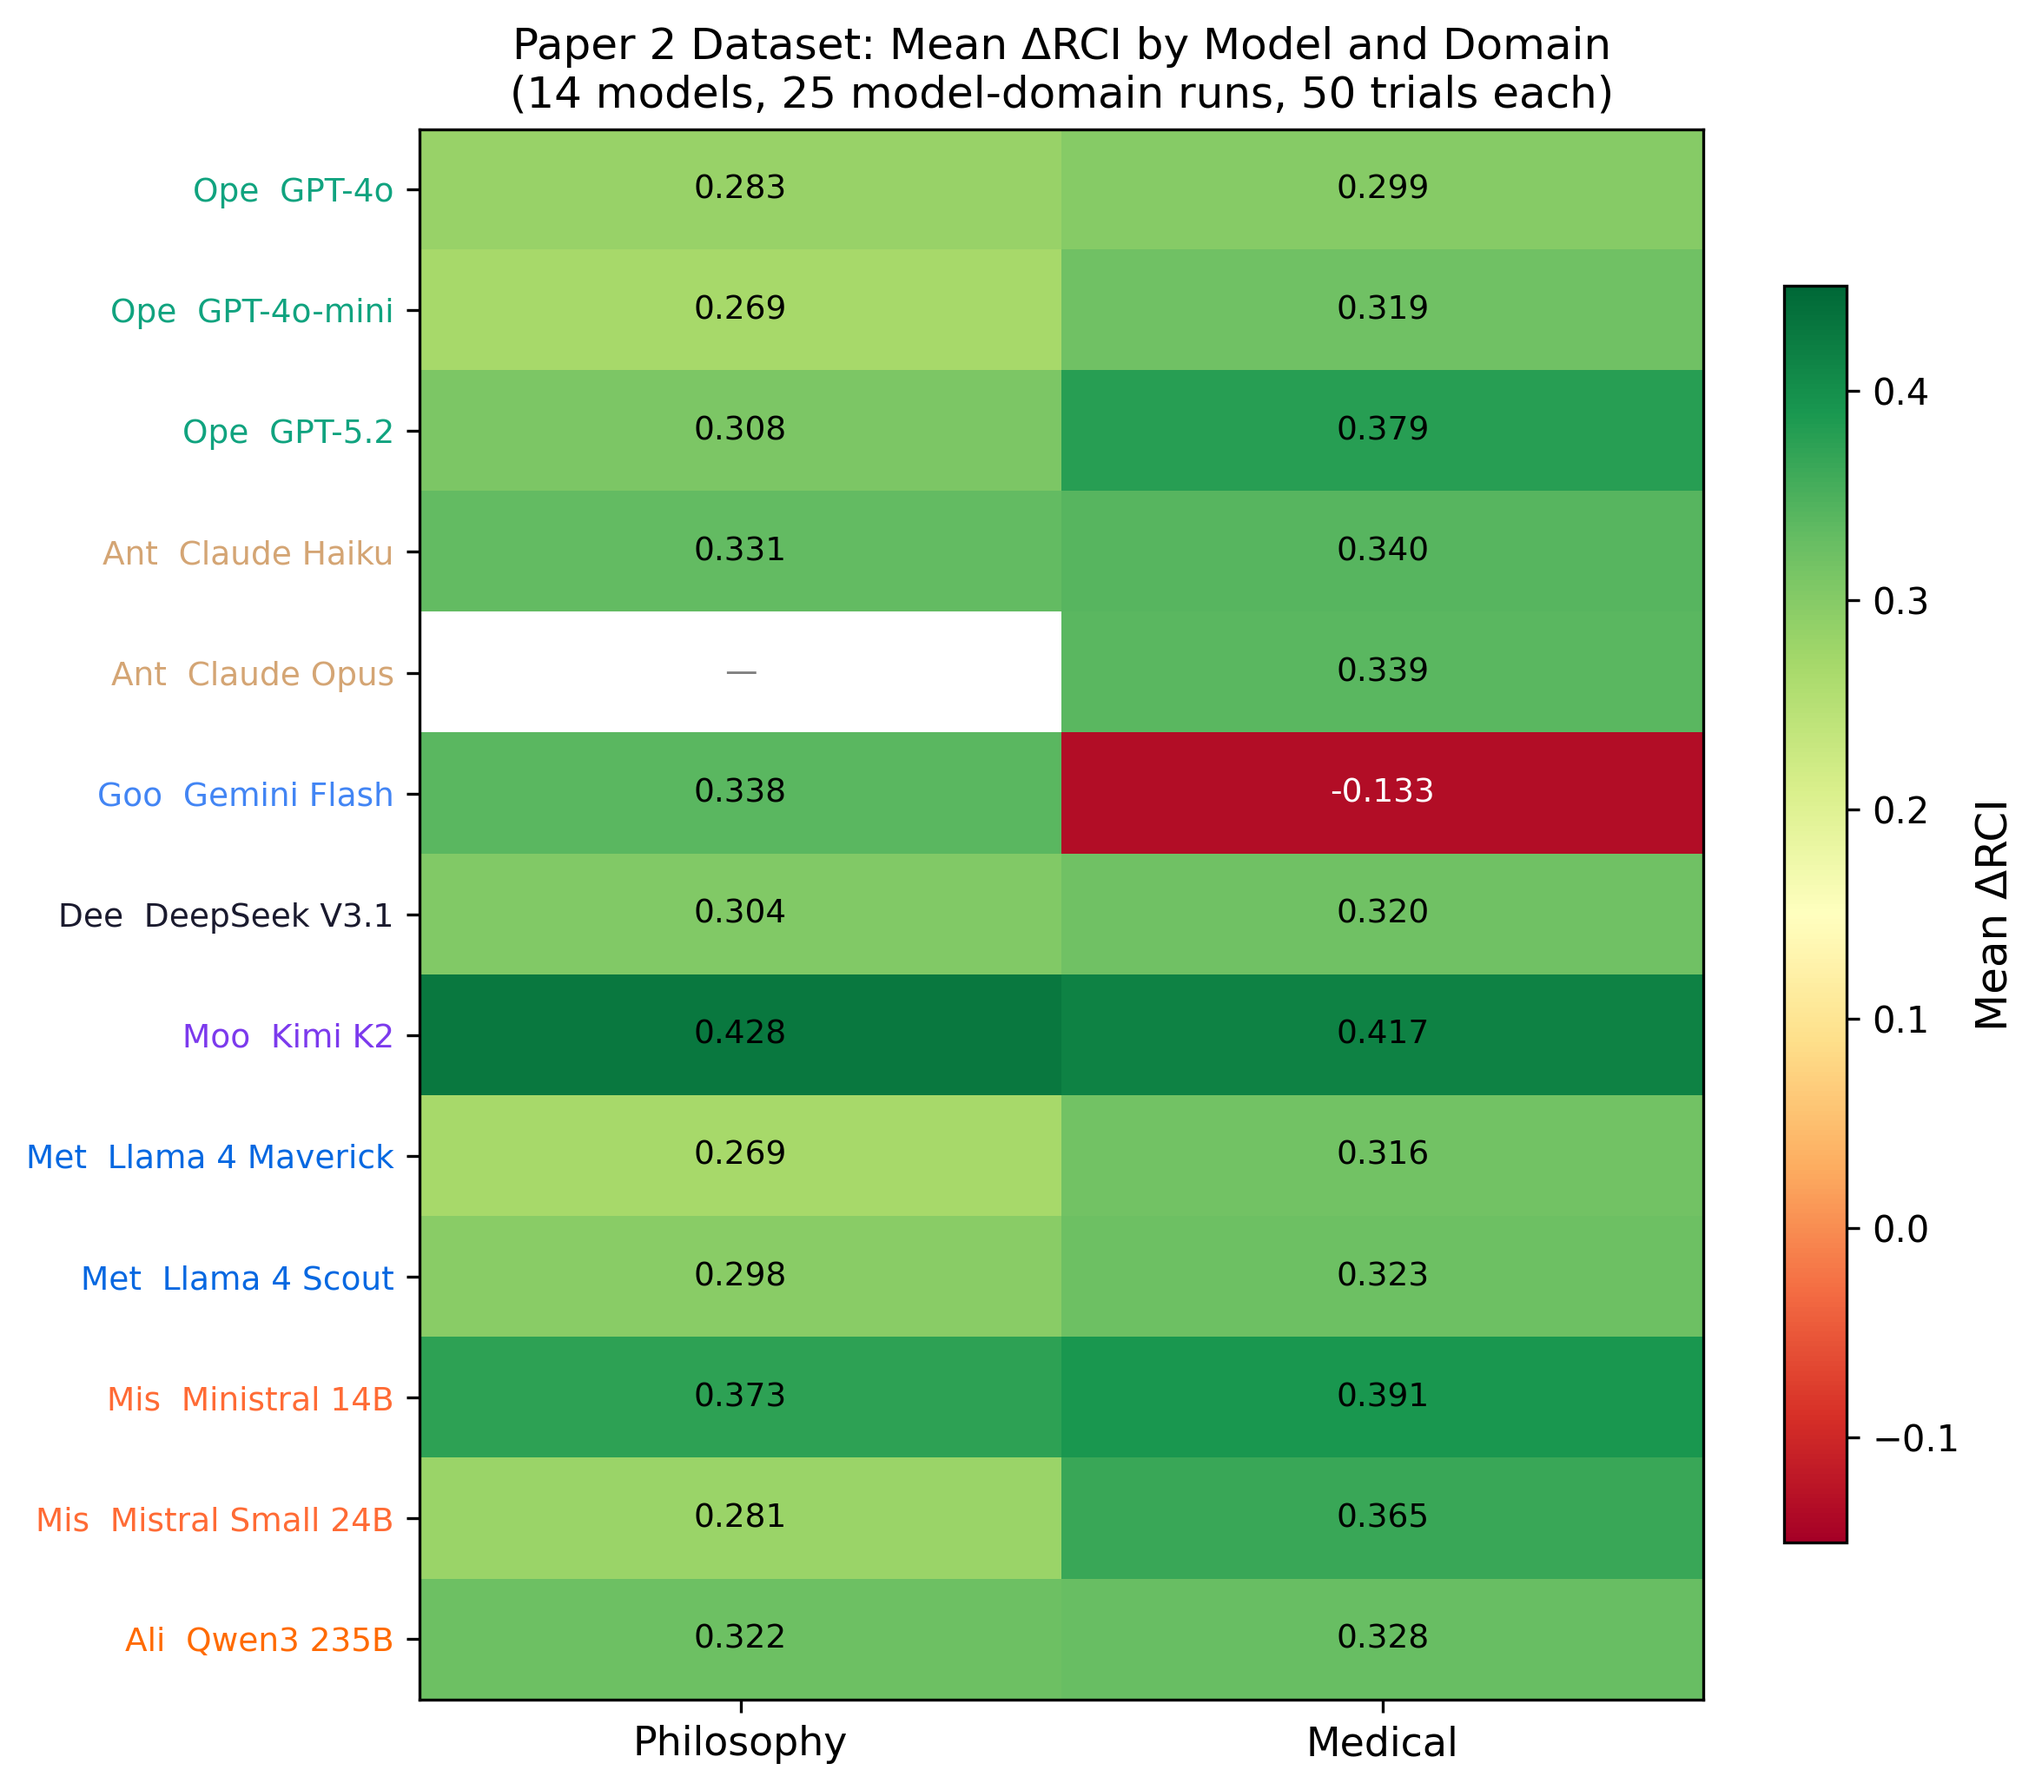
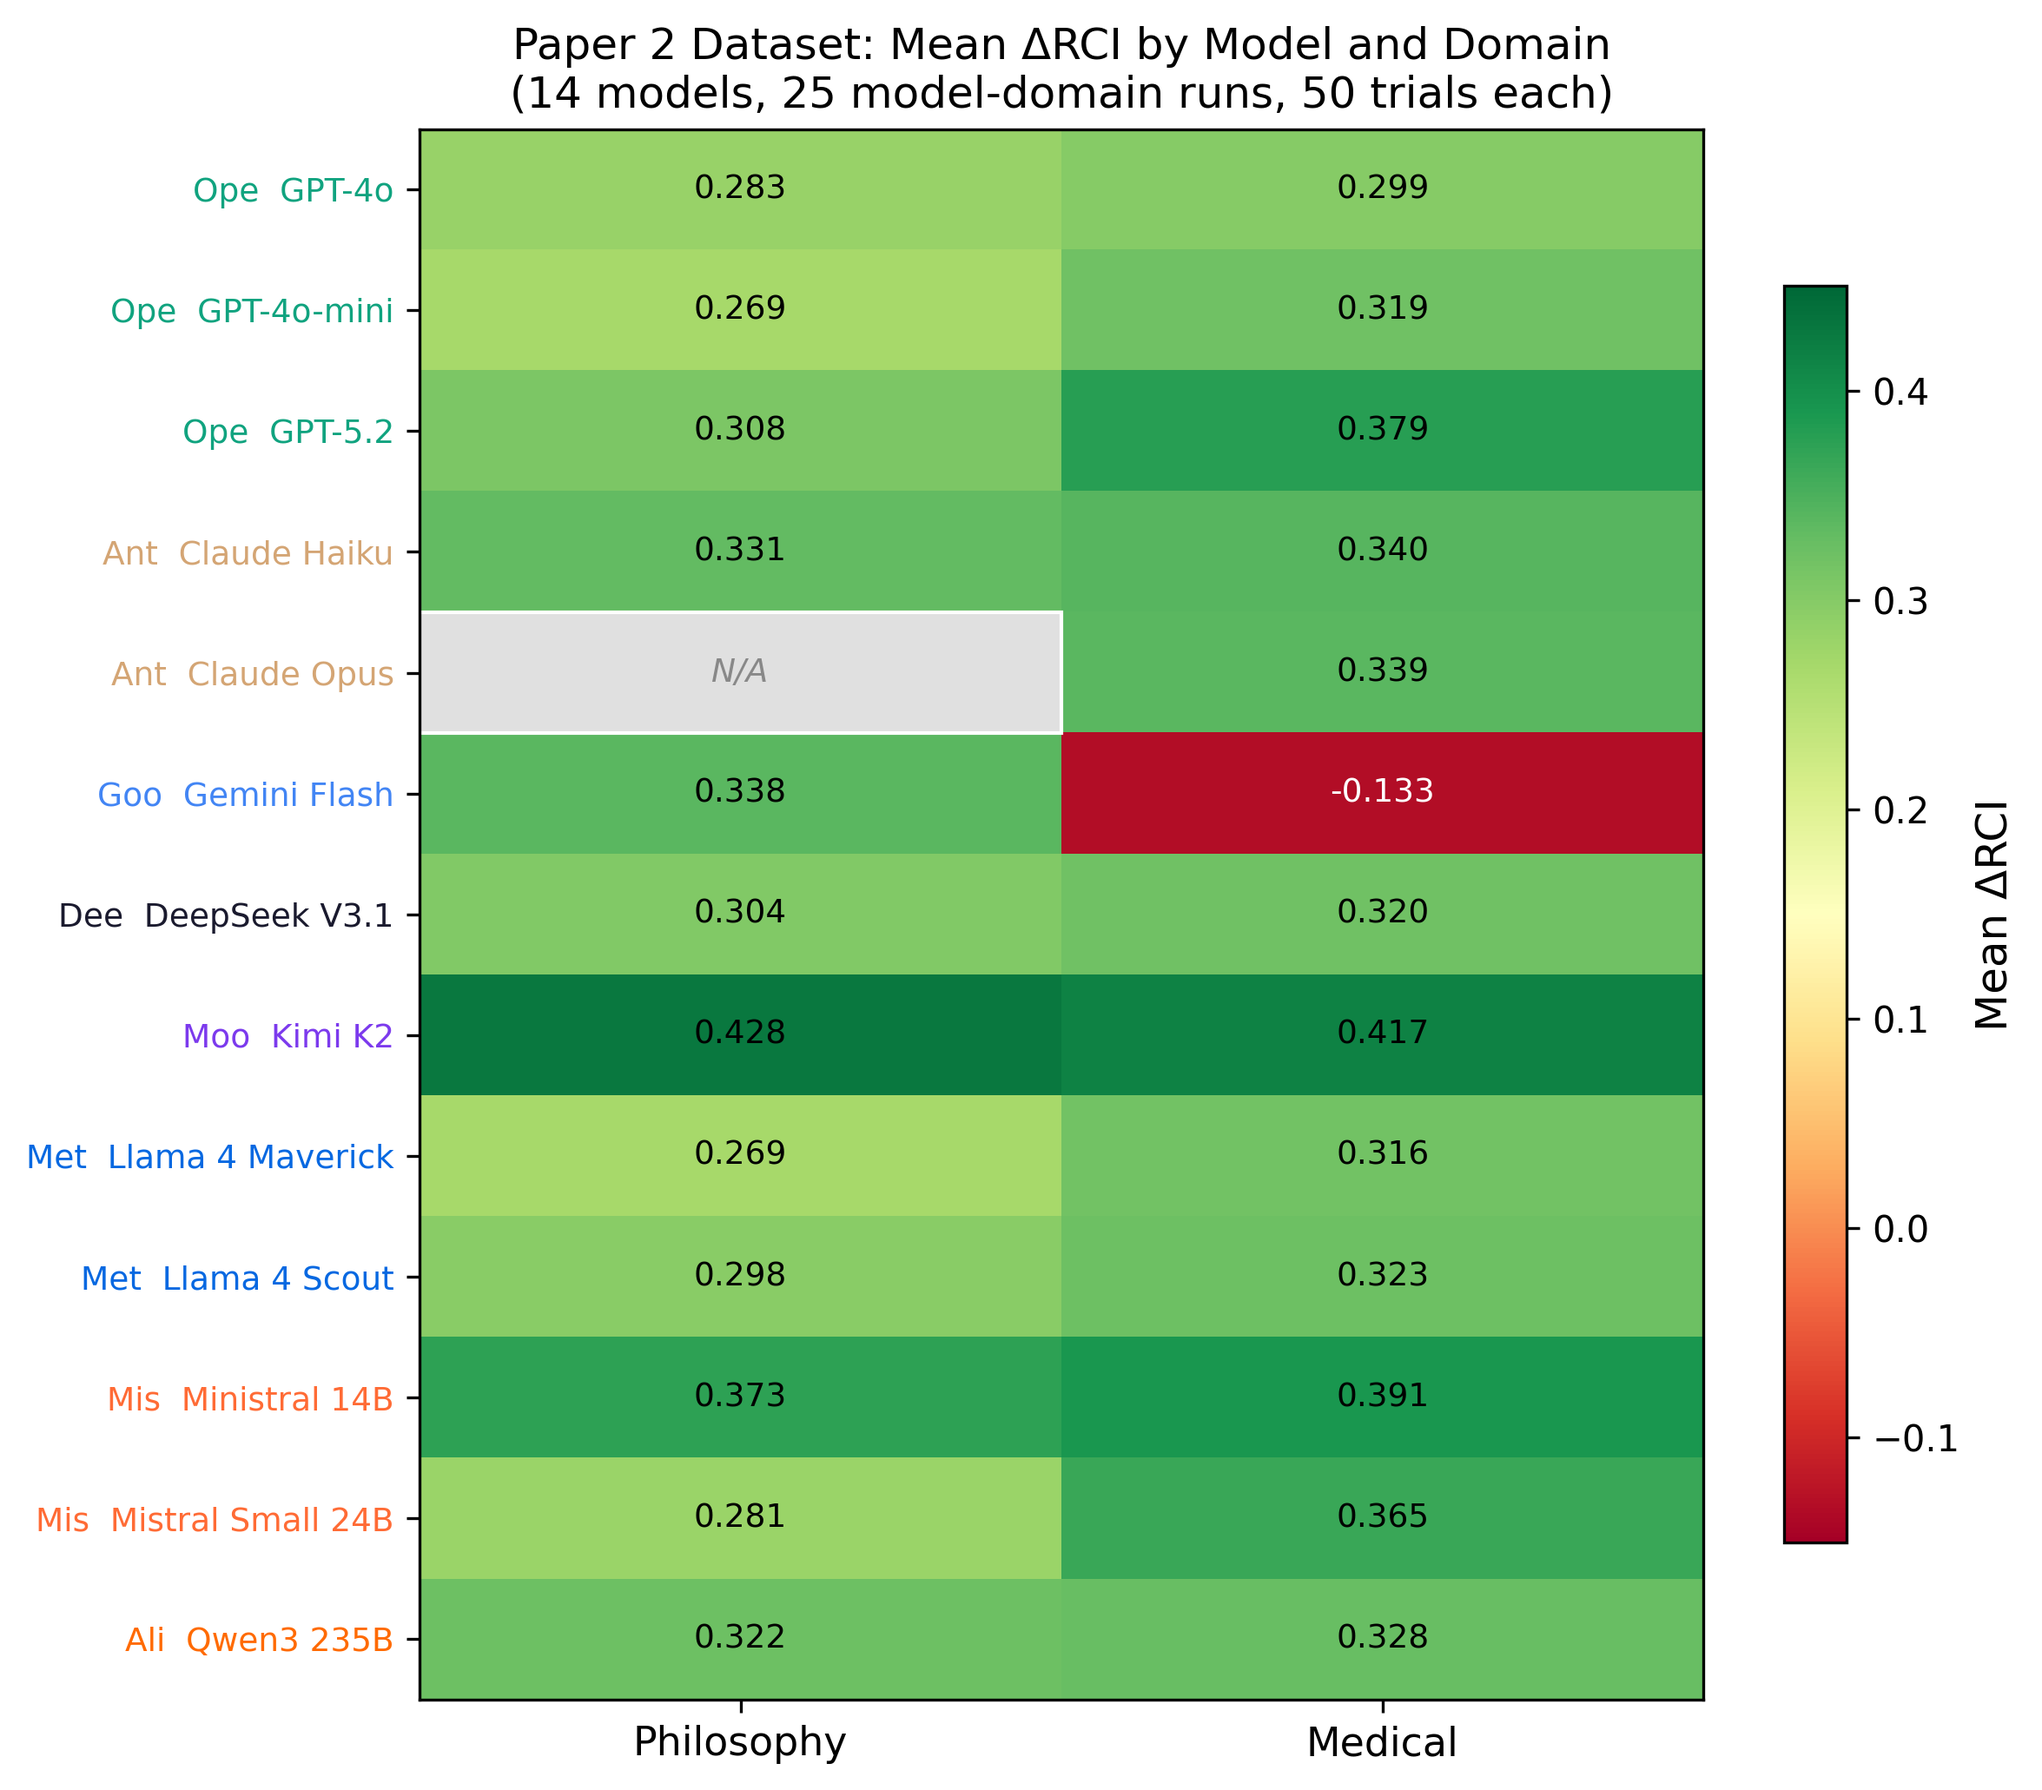
Fix heatmap: show N/A for missing Claude Opus philosophy cell

Changed region(s): [[0.1863, 0.3416, 0.5279, 0.4347]]

diff --git a/scripts/generate_paper2_figures.py b/scripts/generate_paper2_figures.py
@@ -232,7 +232,12 @@ def fig1_dataset_overview(results):
         for j in range(2):
             val = matrix[i, j]
             if np.isnan(val):
-                ax.text(j, i, '—', ha='center', va='center', fontsize=9, color='gray')
+                # Draw a gray hatched rectangle for missing data
+                rect = plt.Rectangle((j - 0.5, i - 0.5), 1, 1,
+                                     facecolor='#e0e0e0', edgecolor='white', linewidth=1)
+                ax.add_patch(rect)
+                ax.text(j, i, 'N/A', ha='center', va='center', fontsize=9,
+                       color='#888888', fontstyle='italic')
             else:
                 color = 'white' if val < 0 else 'black'
                 ax.text(j, i, f'{val:.3f}', ha='center', va='center', fontsize=9, color=color)
